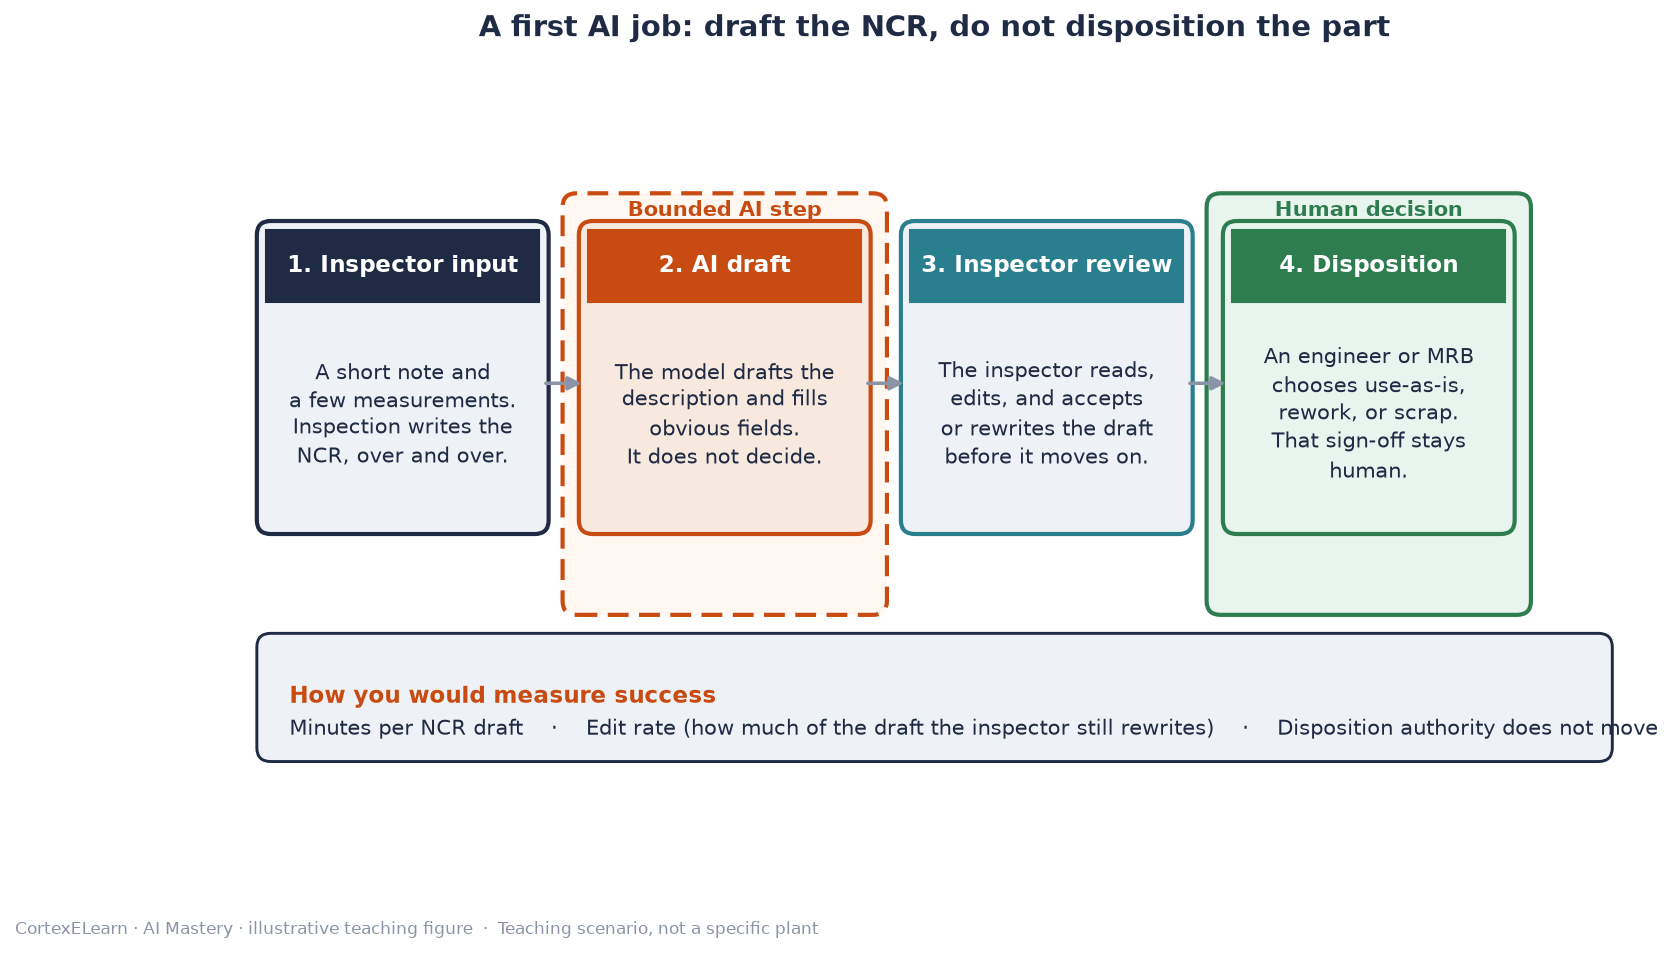
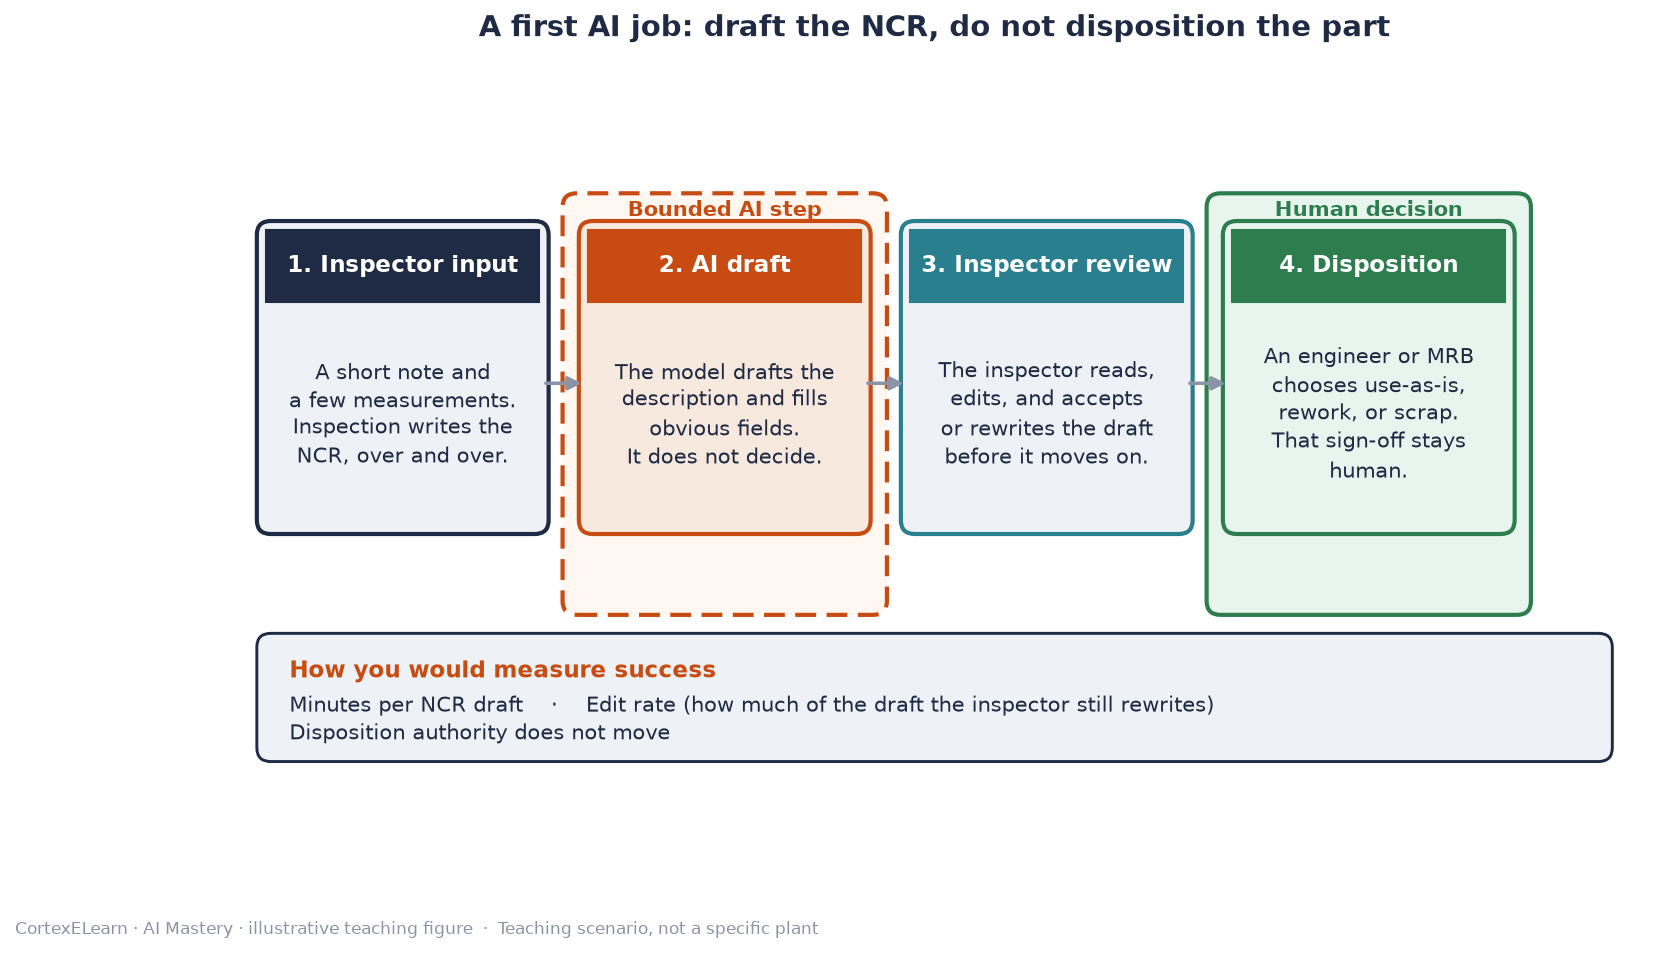
AI Mastery L01: fix text overflow in NCR flow diagram (Rev B)
Wrap the metric-strip line "Disposition authority does not move" so it
stays inside the box. Bump CACHE_NAME to v12 so cached clients pick up
the changed PNG.

diff --git a/sw.js b/sw.js
@@ -5,7 +5,7 @@
 // cortexelearn.github.io), so this worker only ever manages caches that carry
 // its own prefix.
 const CACHE_PREFIX = 'cortexedge-ai-mastery-';
-const CACHE_NAME = CACHE_PREFIX + 'v11';
+const CACHE_NAME = CACHE_PREFIX + 'v12';
 const PRECACHE_URLS = [
   './',
   './index.html',
